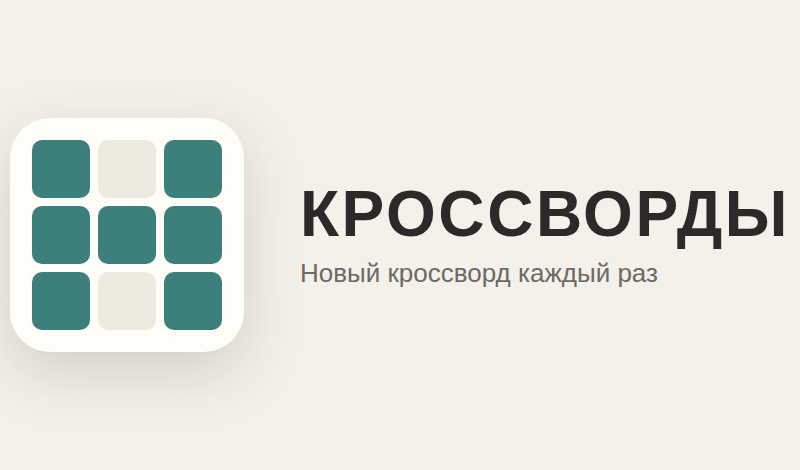
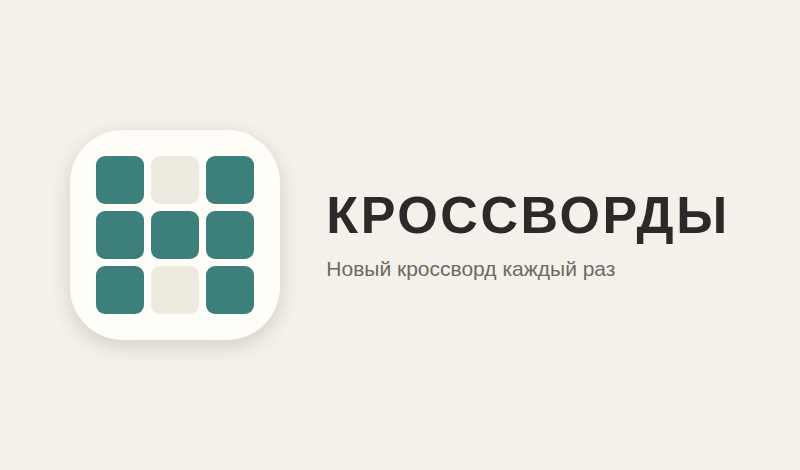
Скриншоты 9:16 и 16:9 в обеих темах, единая эмблема на иконке и обложке
Скриншоты. Прежний набор снимался «как есть» с вьюпортов 390×844 и 1440×900 —
это ни 9:16, ни 16:9. Теперь пропорции точные: мобильные 540×960 (ровно 9:16),
альбомная ориентация 1152×648 и десктоп 1920×1080 (ровно 16:9), всё внутри
лимита площадки 250×140 … 1920×1080. Размеры подобраны так, чтобы вёрстка
рендерилась при реалистичной ширине устройства, а увеличение давал масштаб
устройства, а не растягивание макета.

Снято по каждому экрану (меню, игра, победа, статистика, альбомная
ориентация) в светлой и тёмной теме — 18 файлов вместо прежних 9.

Иконка и обложка. Заказчик заметил расхождение, и оно действительно было:
узор эмблемы совпадал, но цвета были инвертированы — на иконке светлые плитки
на бирюзовом, на обложке и на экране меню наоборот, бирюзовые на светлом.
Выбивалась именно иконка. Теперь эмблема у обеих одна и та же (белая карточка,
бирюзовые плитки, две кремовые) и совпадает с экраном меню; у иконки остался
бирюзовый фон — так она заметнее в витрине. Заодно на обложке перестало
обрезаться «КРОССВОРДЫ»: текст упирался в правый край.

Обе картинки и весь набор скриншотов теперь генерируются скриптами
store/make-assets.mjs и store/make-screenshots.mjs из общего описания узора и
токенов дизайн-системы — разъехаться вручную они больше не могут. Команды
запуска описаны в README.

Попутно в генераторе скриншотов: тема кладётся в сохранение, а не атрибутом на
<html>, иначе перезагрузка внутри сценария сбрасывала её и «тёмные» кадры
[…]

Changed region(s): [[0.0312, 0.2979, 0.3438, 0.7745], [0.375, 0.3872, 1.0, 0.5362], [0.375, 0.5362, 0.8438, 0.6255]]

diff --git a/README.md b/README.md
@@ -93,6 +93,32 @@ npm test         # юнит-тесты: корректность и плотно
    - `/sdk.js` подключается программно из `src/yandex/sdk.js`, а не тегом в
      `index.html` — устойчивее к строгому CSP и без гонки состояний.
 
+## Медиаматериалы для карточки
+
+Иконка, обложка и все скриншоты генерируются скриптами — руками ничего не
+правится, поэтому материалы не разъезжаются между собой и с самой игрой.
+
+```bash
+npm i -D playwright-core --no-save          # временно, в зависимостях его нет
+
+node store/make-assets.mjs                  # иконка 512×512 и обложка 800×470
+
+npm run build                               # скриншоты снимаются с СОБРАННОЙ игры
+python3 -m http.server 5200 --directory dist &
+node store/make-screenshots.mjs
+
+npm uninstall playwright-core               # вернуть зависимости как были
+```
+
+- **Эмблема одна на всё**: `make-assets.mjs` рисует иконку и обложку из общего
+  описания узора и цветов дизайн-системы — тех же, что на экране меню. Раньше
+  картинки делались вручную и разъехались: узор совпадал, но на иконке плитки
+  были светлыми на бирюзовом, а на обложке наоборот.
+- **Скриншоты — 18 файлов**: каждый экран (меню, игра, победа, статистика,
+  альбомная ориентация) в светлой и тёмной теме. Пропорции строго 9:16 для
+  мобильных (540×960) и 16:9 для альбомной ориентации и десктопа (1152×648 и
+  1920×1080), всё внутри лимита площадки 250×140 … 1920×1080.
+
 ## Чек-лист модерации (учтено в коде)
 
 - `LoadingAPI.ready()` — ровно один раз после загрузки (в меню)

diff --git a/store/CARD.md b/store/CARD.md
@@ -49,8 +49,12 @@
 
 - **Иконка 512×512** — [`assets/icon-512.png`](assets/icon-512.png).
 - **Обложка 800×470** — [`assets/cover-800x470.png`](assets/cover-800x470.png).
-- **9 скриншотов** (меню, игра со светлой/тёмной темой, победа, статистика,
-  альбомная ориентация, десктоп) — папка [`screenshots/`](screenshots/).
+  Эмблема на иконке и обложке одна и та же и совпадает с экраном меню — обе
+  картинки рисует [`make-assets.mjs`](make-assets.mjs) из общего описания.
+- **18 скриншотов** — каждый экран (меню, игра, победа, статистика, альбомная
+  ориентация) в светлой и тёмной теме, мобильные ровно 9:16, десктопные ровно
+  16:9. Папка [`screenshots/`](screenshots/), генератор —
+  [`make-screenshots.mjs`](make-screenshots.mjs).
 
 Полный список полей консоли и куда что вставлять — см.
 [`YANDEX_SUBMISSION_GUIDE.md`](YANDEX_SUBMISSION_GUIDE.md).
